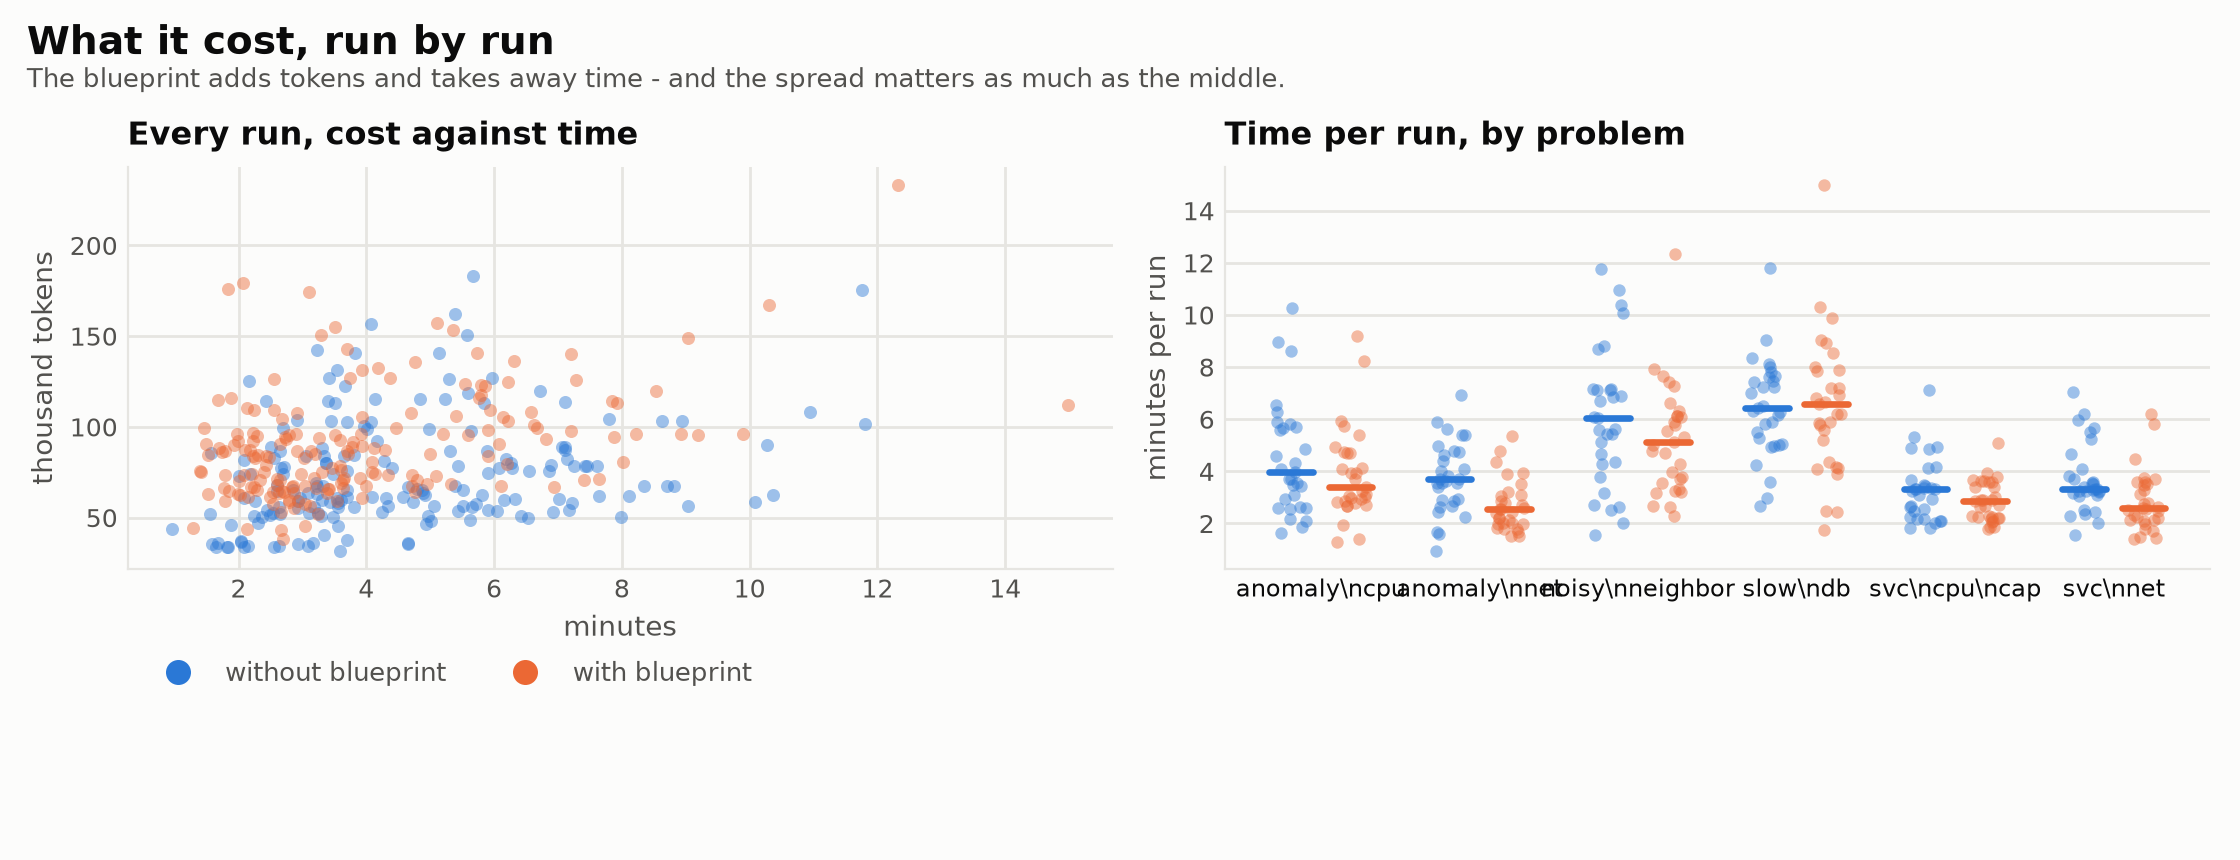
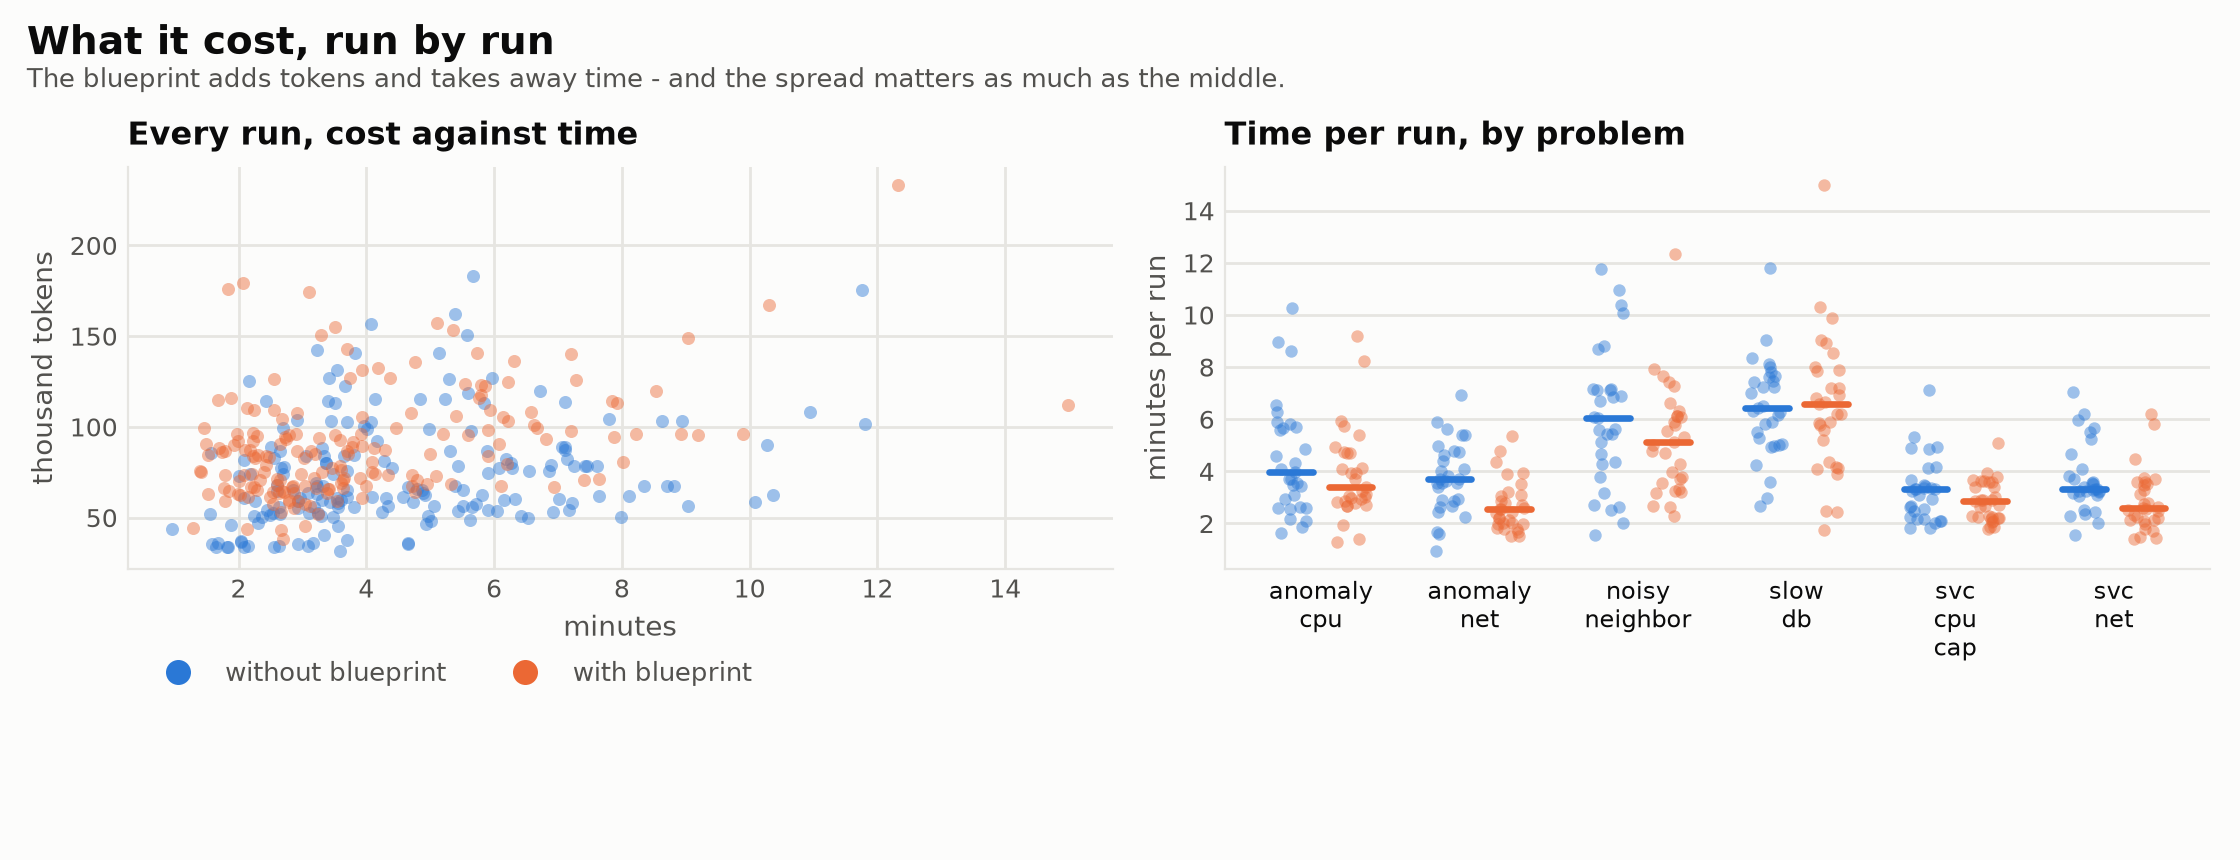
results file: five charts, and say what the raw ones revealed
The window chart changed a conclusion. Plotting all 360 overlap scores instead of the pass
rate shows they sit in two clumps - near 1.0 or near 0, almost nothing between. The agent
either finds the window almost exactly or misses it completely; it does not produce rough
answers. So the 0.5 cut is not arbitrary, it falls in an empty gap between two real groups,
and 'it was close' never happens here.

The every-run chart shows something else no average could: the third incident of slow_db is
grey in all four arms, so one of its three incidents is harder than the other two.

Changed region(s): [[0.5625, 0.6651, 0.9688, 0.7256]]

diff --git a/blueprints/lib/q2_onefile.py b/blueprints/lib/q2_onefile.py
@@ -305,58 +305,81 @@ def main() -> int:
     L.append("The middle value of the 15 runs, not the average. One very slow run cannot drag "
              "the number.")
     L.append("")
-    L.append("## The results in four charts")
+    L.append("## The results in five charts")
     L.append("")
     L.append("Generated by `blueprints/lib/q2_charts.py` from the same run files as the "
-             "tables below.")
+             "tables below. Three of the five show **every single run** rather than an "
+             "average, because averaging 360 runs down to 24 numbers hid things worth seeing.")
     L.append("")
     L.append("### 1. Where the blueprint helps, and where it hurts")
     L.append("")
     L.append("![Blueprint effect by problem and measure](charts/1-blueprint-effect.png)")
     L.append("")
-    L.append("Read the rows in three groups. Faults that hit the **whole host** are at the "
-             "top, a **datastore** fault in the middle, **one service** at the bottom.")
+    L.append("Rows are grouped by what the fault touches: **whole host** at the top, a "
+             "**datastore** in the middle, **one service** at the bottom.")
     L.append("")
-    L.append("Three things stand out. The blueprint helps most at explaining the problem - "
-             "+44 on `noisy_neighbor`, +29 on `slow_db`. It does nothing for finding the place "
-             "on three problems, and the two reasons for that are opposite (chart 3). And on "
-             "`anomaly_net` it makes finding the time **37 points worse** - that one is our "
-             "own fault and is explained at the end of this file.")
+    L.append("The blueprint helps most at explaining the problem - +44 on `noisy_neighbor`, "
+             "+29 on `slow_db`. It does nothing for finding the place on three problems, and "
+             "the reasons are opposite (chart 4). On `anomaly_net` it makes finding the time "
+             "**37 points worse**, which is our own fault and is explained at the end.")
     L.append("")
-    L.append("### 2. How good is the agent, with and without?")
+    L.append("### 2. Every one of the 360 runs")
     L.append("")
-    L.append("![Accuracy with and without a blueprint](charts/2-accuracy.png)")
+    L.append("![All 360 runs, one square each](charts/2-every-run.png)")
     L.append("")
-    L.append("The heatmap shows the change. This shows the level, which matters just as much: "
-             "a +23 from 67%% to 90%% is not the same as a +23 from 0%% to 23%%.")
+    L.append("One square per run. Each block is 5 repeats across by 3 incidents down. Nothing "
+             "is averaged, so you can see how steady each result is.")
     L.append("")
-    L.append("Finding the place splits hard by scope. Host-wide faults run 90-100%% with a "
-             "blueprint. The two single-service faults sit at **zero in both arms**.")
+    L.append("A percentage cannot tell a steady 3-out-of-5 from 5-out-of-5 on one incident and "
+             "0-out-of-5 on the next. Here it is visible. `anomaly_cpu` is solid dark across "
+             "all 60 runs - never once wrong. `svc_net` is almost solid grey. And the third "
+             "row of `slow_db` is grey in every arm, which says one of its three incidents is "
+             "harder than the other two - something no column of averages would ever show.")
     L.append("")
-    L.append("### 3. Why the blueprint changes nothing on three problems")
+    L.append("### 3. How close was the time it gave?")
     L.append("")
-    L.append("![Score without vs with a blueprint](charts/3-room-to-improve.png)")
+    L.append("![All 360 window scores](charts/3-window-raw.png)")
+    L.append("")
+    L.append("Every run's overlap score, not the pass rate. This is the chart that changed "
+             "what we think.")
+    L.append("")
+    L.append("**The scores are in two clumps, near 1.0 or near 0, with almost nothing "
+             "between.** The agent either finds the window almost exactly or misses it "
+             "completely. It does not produce rough answers.")
+    L.append("")
+    L.append("That matters for two reasons. The 0.5 cut we chose is not arbitrary after all - "
+             "it falls in an empty gap between two real groups. And \"it was close\" is not a "
+             "thing that happens here, so a miss is always a miss and worth reading.")
+    L.append("")
+    L.append("The `anomaly_net` damage is visible too: without the blueprint the runs sit high, "
+             "with it there are 14 grey `unknown` answers instead.")
+    L.append("")
+    L.append("### 4. Why the blueprint changes nothing on three problems")
+    L.append("")
+    L.append("![Score without vs with a blueprint](charts/4-room-to-improve.png)")
     L.append("")
     L.append("Points above the line are where the blueprint helped. Points **on** the line are "
              "where it changed nothing - and the two ends mean opposite things.")
     L.append("")
-    L.append("`anomaly_cpu` sits top right at 100%% in both arms. The agent already found it "
-             "every time, so there was nothing left to gain.")
+    L.append("`anomaly_cpu` sits top right at 100%% in both arms. Nothing left to gain. "
+             "`svc_cpu_cap` and `svc_net` sit bottom left at zero in both arms, because our "
+             "tools could not tell one container's `java` from another's. A blueprint cannot "
+             "rescue a question the evidence cannot answer.")
     L.append("")
-    L.append("`svc_cpu_cap` and `svc_net` sit bottom left at zero in both arms. The agent could "
-             "not find it either way, because our tools could not tell one container's `java` "
-             "from another's. A blueprint cannot rescue a question the evidence cannot answer.")
-    L.append("")
-    L.append("**Same number, opposite meaning.** That is why we do not report an average across "
+    L.append("**Same number, opposite meaning.** That is why we never report an average across "
              "problems - it came out as +0 and told us nothing.")
     L.append("")
-    L.append("### 4. What it costs")
+    L.append("### 5. What it cost, run by run")
     L.append("")
-    L.append("![Time and tokens with and without a blueprint](charts/4-cost.png)")
+    L.append("![Time and tokens for every run](charts/5-cost-raw.png)")
     L.append("")
-    L.append("The blueprint adds roughly 10-25k tokens per run, because it is a long document "
-             "to read. It does **not** cost time. On five of six problems the agent is faster "
-             "with it - it stops casting about and follows a method.")
+    L.append("The left panel is all 360 runs on cost and time. The clouds overlap almost "
+             "completely, so the neat median difference in the tables is a small shift inside "
+             "a very wide spread - runs range from 30k to 230k tokens on the same problem.")
+    L.append("")
+    L.append("The right panel is clearer: with the blueprint the agent is **faster** on every "
+             "problem. It costs more to read and saves more than it costs by not casting "
+             "about.")
     L.append("")
     L.append("---")
     L.append("")
